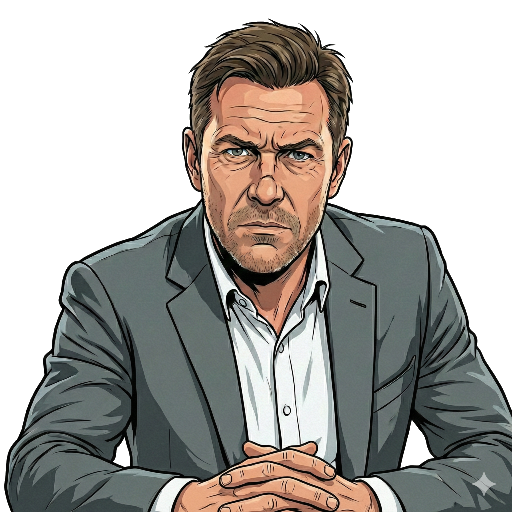
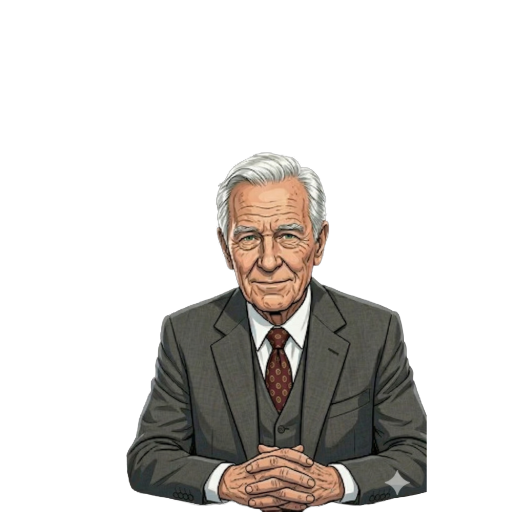
23

diff --git a/components/PlayerProgress.tsx b/components/PlayerProgress.tsx
@@ -1,6 +1,6 @@
 import React, { useState, useMemo } from 'react';
 import { UserProfile, Prediction, Translation } from '../types';
-import { Users, CheckCircle2, ChevronDown, Globe, Trophy } from 'lucide-react';
+import { Users, CheckCircle2, ChevronDown, Trophy } from 'lucide-react';
 import { AvatarDisplay } from './AvatarDisplay';
 import { LEAGUES } from '../constants';
 
@@ -13,17 +13,15 @@ interface PlayerProgressProps {
 }
 
 export const PlayerProgress: React.FC<PlayerProgressProps> = ({ users, allPredictions, lang, currentUserLeagues = [] }) => {
-  const [activeLeague, setActiveLeague] = useState<string>('global');
+  const [activeLeague, setActiveLeague] = useState<string>(currentUserLeagues[0] || '');
   const [showLeagueMenu, setShowLeagueMenu] = useState(false);
 
   const getLeagueName = (slug: string) =>
-    slug === 'global'
-      ? (lang.lbGlobal || 'Global League')
-      : (LEAGUES[slug] ?? slug.charAt(0).toUpperCase() + slug.slice(1));
+    LEAGUES[slug] ?? slug.charAt(0).toUpperCase() + slug.slice(1);
 
-  // Filter users based on league selection
+  // Filter users to only those in the active league
   const filteredUsers = useMemo(() => {
-      if (activeLeague === 'global') return users;
+      if (!activeLeague) return users;
       return users.filter(u => u.leagues?.includes(activeLeague));
   }, [users, activeLeague]);
 
@@ -86,7 +84,7 @@ export const PlayerProgress: React.FC<PlayerProgressProps> = ({ users, allPredic
                     className="w-full flex items-center justify-between bg-white border border-slate-200 shadow-sm rounded-xl px-4 py-2.5 text-xs font-bold text-slate-700 hover:border-blue-300 transition-colors"
                  >
                     <div className="flex items-center gap-2">
-                        {activeLeague === 'global' ? <Globe size={14} className="text-blue-500" /> : <Trophy size={14} className="text-purple-500" />}
+                        <Trophy size={14} className="text-purple-500" />
                         <span className="uppercase tracking-wide">{getLeagueName(activeLeague)}</span>
                     </div>
                     <ChevronDown size={14} className={`text-slate-400 transition-transform ${showLeagueMenu ? 'rotate-180' : ''}`} />
@@ -94,14 +92,8 @@ export const PlayerProgress: React.FC<PlayerProgressProps> = ({ users, allPredic
 
                  {showLeagueMenu && (
                      <div className="absolute top-full left-2 right-2 mt-1 bg-white rounded-xl shadow-xl border border-slate-100 overflow-hidden animate-in fade-in slide-in-from-top-2 z-30">
-                         <button 
-                            onClick={() => { setActiveLeague('global'); setShowLeagueMenu(false); }}
-                            className={`w-full text-left px-4 py-3 text-xs font-bold uppercase tracking-wider flex items-center gap-2 hover:bg-slate-50 ${activeLeague === 'global' ? 'text-blue-600 bg-blue-50' : 'text-slate-600'}`}
-                         >
-                             <Globe size={14} /> {lang.lbGlobal || "Global League"}
-                         </button>
                          {currentUserLeagues.map(slug => (
-                             <button 
+                             <button
                                 key={slug}
                                 onClick={() => { setActiveLeague(slug); setShowLeagueMenu(false); }}
                                 className={`w-full text-left px-4 py-3 text-xs font-bold uppercase tracking-wider flex items-center gap-2 hover:bg-slate-50 ${activeLeague === slug ? 'text-purple-600 bg-purple-50' : 'text-slate-600'}`}
